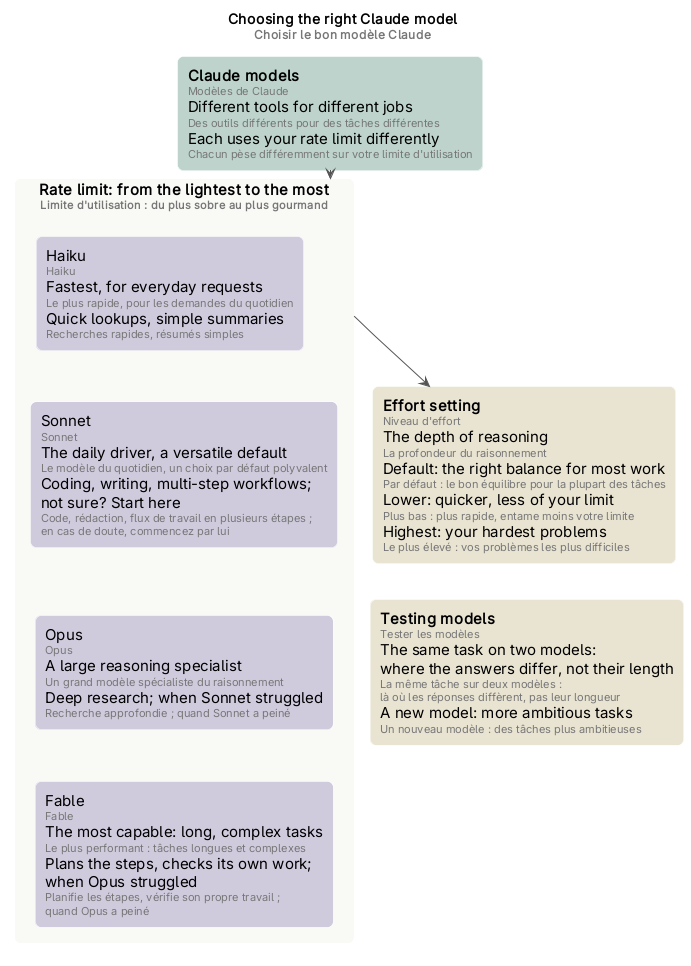
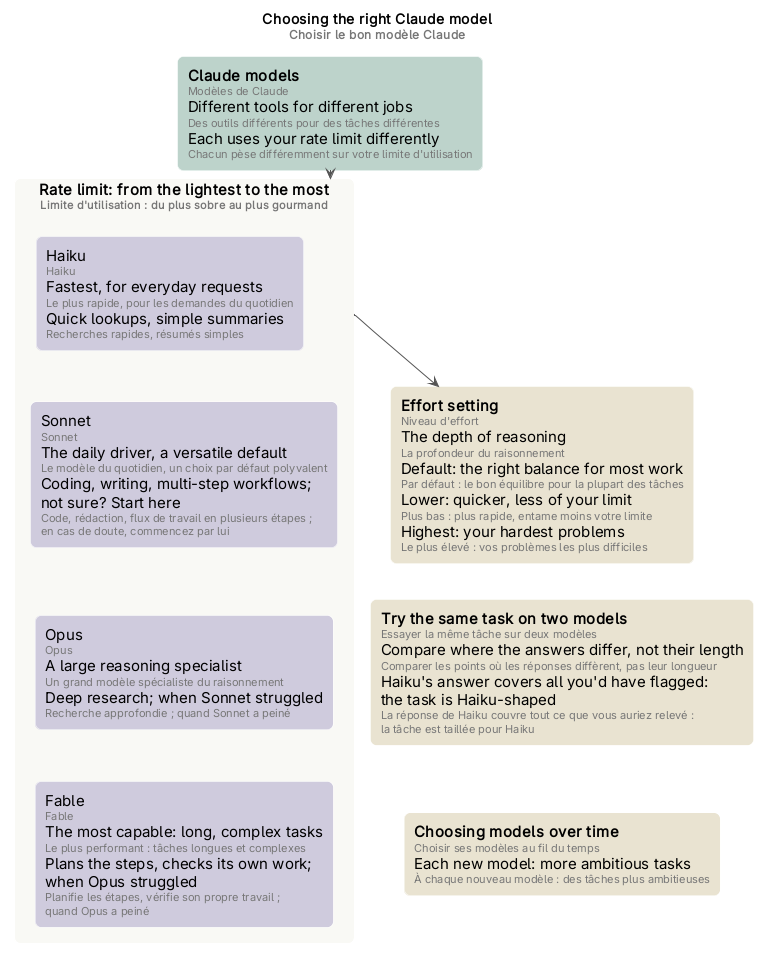
docs: four models map, the course's own section titles and the Haiku-shaped test

diff --git a/04-choosing-the-right-claude-model/mindmap.md b/04-choosing-the-right-claude-model/mindmap.md
@@ -15,4 +15,4 @@ Les schémas du [glossaire](index.md), un par partie du cours. Chacun est un fic
 
 ![Schéma des quatre modèles](mindmap/four-models.png)
 
-*Les quatre modèles de Claude, du plus sobre au plus gourmand sur la limite d'utilisation (Haiku, Sonnet, Opus, Fable), ce que chacun est et quand le choisir ; le niveau d'effort, qui règle la profondeur du raisonnement ; tester les modèles (la même tâche sur deux modèles, des tâches plus ambitieuses à chaque nouveau modèle).* Source : [four-models.puml](mindmap/four-models.puml)
+*Les quatre modèles de Claude, du plus sobre au plus gourmand sur la limite d'utilisation (Haiku, Sonnet, Opus, Fable), ce que chacun est et quand le choisir ; le niveau d'effort, qui règle la profondeur du raisonnement ; la même tâche sur deux modèles (en quoi les réponses diffèrent, une tâche taillée pour Haiku) ; des tâches plus ambitieuses à chaque nouveau modèle.* Source : [four-models.puml](mindmap/four-models.puml)
